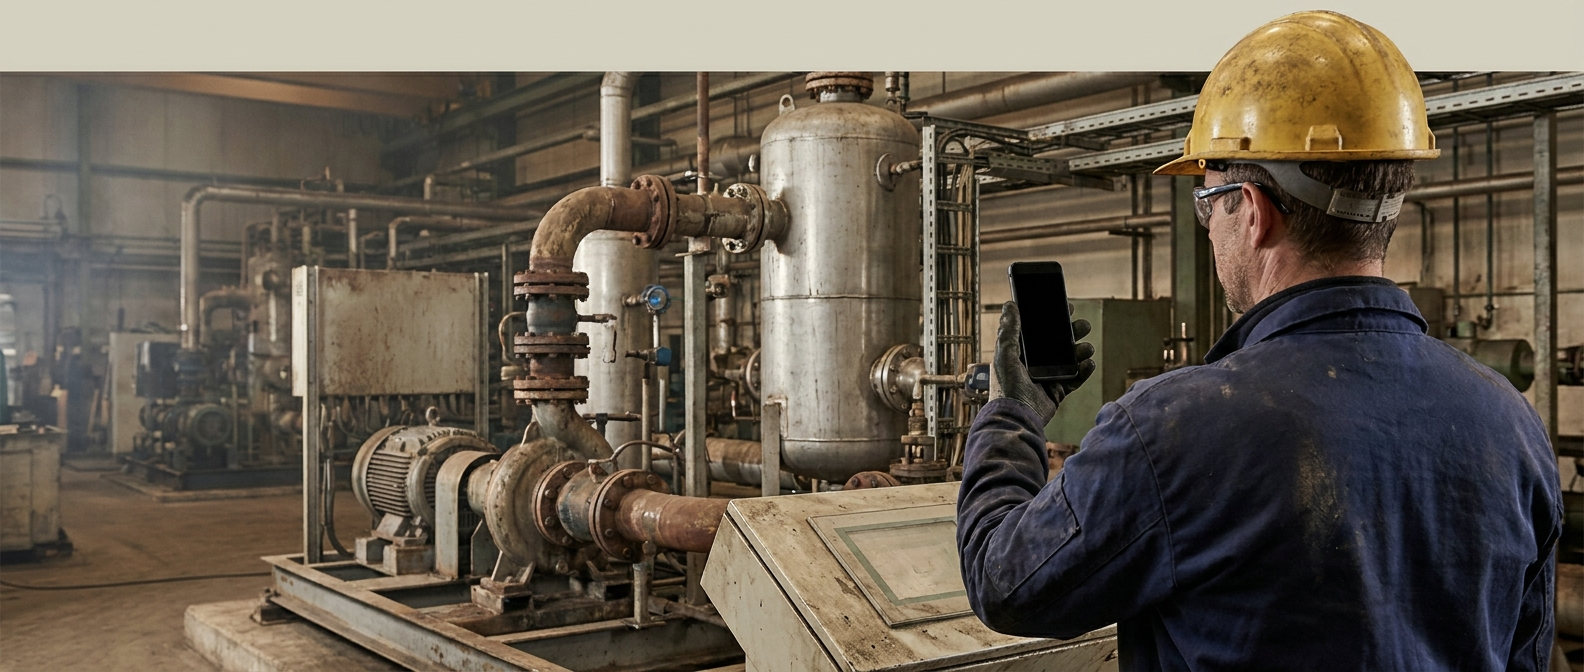
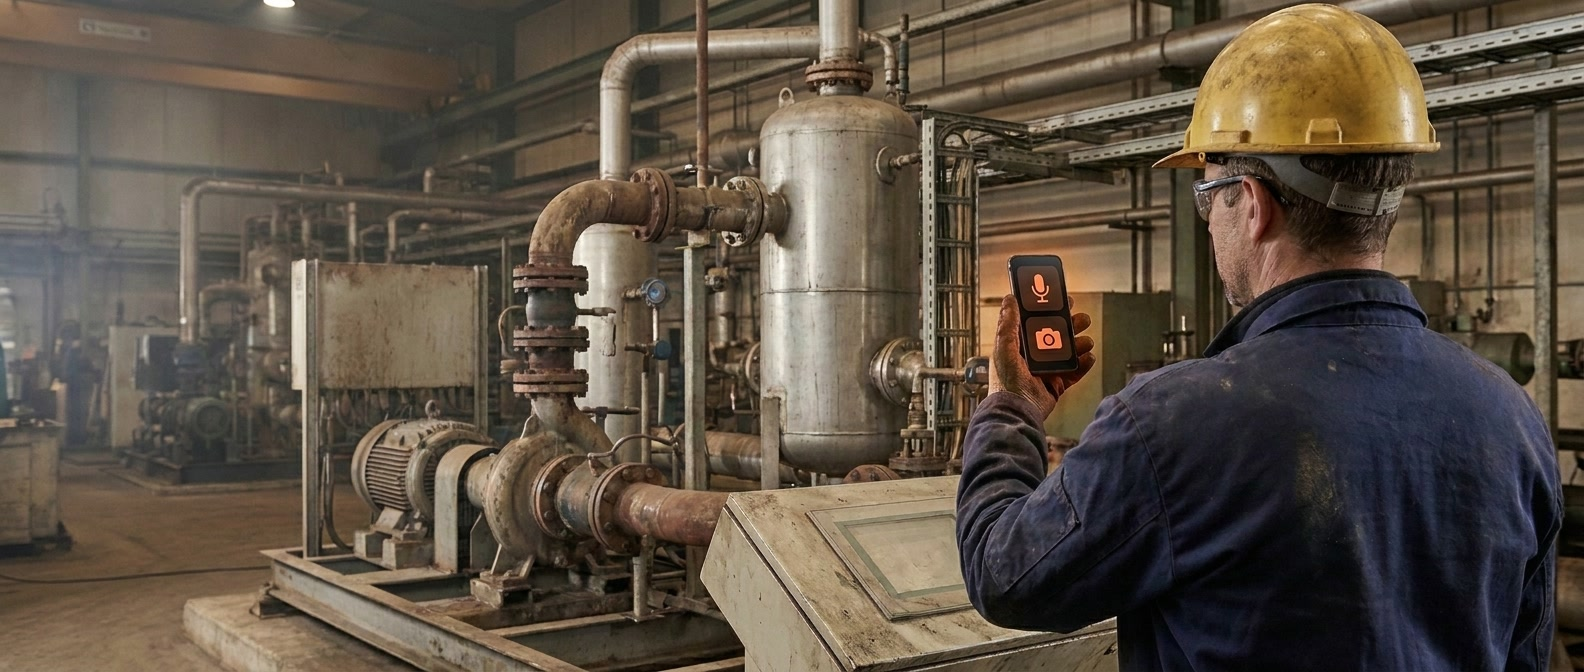
Update hero: new hero plate image and hero-photo scene
Refresh the hero photography and the HeroPhotoScene layout. Keep the working
source image (assets/) out of the published repo.

diff --git a/src/components/home/hero-photo.tsx b/src/components/home/hero-photo.tsx
@@ -103,20 +103,6 @@ const pillWidth = (f: Feed) => {
   return f.label.length * 7.4 + (f.mic ? 40 : 26);
 };
 
-/* ┌─────────────────────────────────────────────────────────────────────────┐
- * │  PHONE UI PLACEMENT — HAND-TUNE THESE THREE NUMBERS                        │
- * │  The VOICE + PHOTO buttons are one group drawn centred on (0,0), so:       │
- * │    PHONE_UI_X       move the buttons LEFT (smaller) / RIGHT (larger)       │
- * │    PHONE_UI_Y       move the buttons UP (smaller)  / DOWN (larger)         │
- * │    PHONE_UI_ROTATE  tilt in degrees, clockwise positive — match the phone  │
- * │  Rotation pivots about the CENTRE of the stack, so changing the angle does │
- * │  NOT move the buttons: tune position and angle independently.             │
- * │  Units are viewBox units (the whole scene is 1584 × 672). Edit, save, look.│
- * └─────────────────────────────────────────────────────────────────────────┘ */
-const PHONE_UI_X = 1044; // ← left / right
-const PHONE_UI_Y = 315; // ← up / down
-const PHONE_UI_ROTATE = -9; // ← angle (deg, clockwise +)
-
 /* ┌── SPEECH BUBBLE (spoken note) — HAND-TUNE ──────────────────────────────┐
  * │  The audio wave lives in a speech bubble whose tail points at the mouth. │
  * │    SPEECH_X / SPEECH_Y   bubble centre (move LEFT = smaller X)           │
@@ -411,31 +397,9 @@ export function HeroPhotoScene() {
         </g>
       </g>
 
-      {/* Oppr phone UI — two stacked capture buttons (icon over text), drawn
-          centred on (0,0) so PHONE_UI_ROTATE pivots about the stack centre.
-          Tune PHONE_UI_X / _Y / _ROTATE above. */}
-      <g transform={`translate(${PHONE_UI_X} ${PHONE_UI_Y}) rotate(${PHONE_UI_ROTATE})`} filter="url(#heroGlow)">
-        {/* VOICE (human / terracotta) — top button, spans y −38…−4 */}
-        <rect x="-16" y="-38" width="32" height="34" rx="7" fill="#100f0b" fillOpacity="0.52" stroke={HUMAN} strokeWidth="1.4" />
-        <g stroke={HUMAN} fill="none" strokeLinecap="round">
-          <rect x="-2.6" y="-32.5" width="5.2" height="9.5" rx="2.6" fill={HUMAN} stroke="none" />
-          <path d="M-5 -27 a 5 5.2 0 0 0 10 0" strokeWidth="1.6" />
-          <line x1="0" y1="-21.6" x2="0" y2="-19.4" strokeWidth="1.7" />
-        </g>
-        <text x="0" y="-8.5" textAnchor="middle" fill={HUMAN} fontSize="7" fontWeight="700" style={mono}>
-          VOICE
-        </text>
-        {/* PHOTO — bottom button, spans y 4…38 */}
-        <rect x="-16" y="4" width="32" height="34" rx="7" fill="#100f0b" fillOpacity="0.52" stroke={PAGE} strokeWidth="1.2" opacity="0.92" />
-        <g stroke={PAGE} fill="none" opacity="0.92">
-          <rect x="-9" y="12" width="18" height="12.5" rx="2" strokeWidth="1.4" />
-          <path d="M-4.5 12 l2 -2.8 h4.8 l2 2.8" strokeWidth="1.4" strokeLinejoin="round" />
-          <circle cx="0" cy="18.4" r="3.6" strokeWidth="1.4" />
-        </g>
-        <text x="0" y="34" textAnchor="middle" fill={PAGE} fontSize="7" fontWeight="700" opacity="0.92" style={mono}>
-          PHOTO
-        </text>
-      </g>
+      {/* The VOICE + PHOTO capture buttons now live in the photo plate itself
+          (baked in via the Gemini edit), so the phone screen reads as a real
+          app in correct perspective — no coded button overlay here. */}
     </svg>
   );
 }
